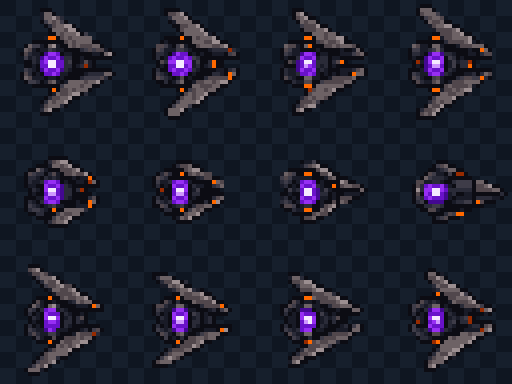
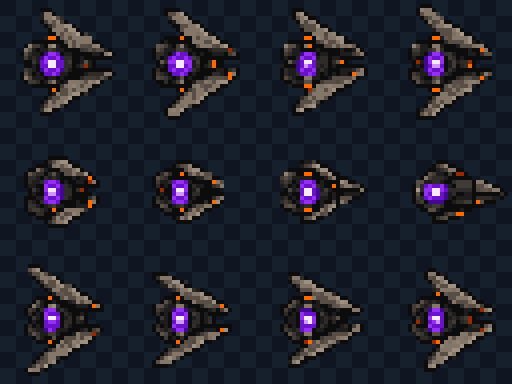
2섹터 몬스터 외장에 사용자 선택 주철 질감을 반영한다
1섹터 승인 atlas의 크기·프레임·alpha·역할색은 그대로 보존하고, 중립 외장재만 고정 팔레트와 셀 좌표 표면 편차로 정규화했다. 기존 sectorId 선택 계약은 유지해 다른 섹터와 게임플레이에는 영향을 주지 않는다.

Related: #941

Confidence: high

Scope-risk: narrow

Tested: authoring 결정적 검증, enemy sprite validator, Stage 2-3 데스크톱 1280x720·모바일 844x390 브라우저 검수, npm run check, npm run format:check, git diff --check 통과

Not-tested: 없음

diff --git a/assets/artwork/characters/sector-02-enemy-family-material-variant/source/build_sector02_variant.py b/assets/artwork/characters/sector-02-enemy-family-material-variant/source/build_sector02_variant.py
@@ -15,6 +15,7 @@ EXPORT_ROOT = PACKAGE_ROOT / "export"
 PREVIEW_ROOT = PACKAGE_ROOT / "preview"
 ATLAS_REVIEW_ROOT = PREVIEW_ROOT / "atlas-review"
 SECTOR_REFERENCE = REPO_ROOT / "docs" / "bsh" / "scenario" / "2" / "images" / "sector-02-background-reference.png"
+USER_MATERIAL_REFERENCE = PACKAGE_ROOT / "source" / "user-reference" / "sector-02-rugged-cast-iron-user-reference.png"
 
 ATLAS_NAMES = (
     "pursuit-motion.png",
@@ -30,43 +31,43 @@ ATLAS_NAMES = (
 # Only source RGB values in these fixed tables can change. The mappings are
 # intentionally shared across every frame of an atlas to prevent color jitter.
 COMMON_WORN_METAL = {
-    (9, 15, 26): (10, 13, 22),
-    (25, 37, 56): (31, 37, 52),
-    (99, 91, 83): (95, 84, 87),
-    (177, 166, 154): (166, 154, 151),
+    (9, 15, 26): (12, 12, 13),
+    (25, 37, 56): (43, 40, 38),
+    (99, 91, 83): (91, 82, 73),
+    (177, 166, 154): (148, 136, 122),
 }
 
 WORKER_DISTRICT_METAL = {
-    (5, 12, 24): (9, 12, 21),
-    (14, 30, 52): (28, 33, 48),
-    (38, 59, 86): (51, 55, 72),
-    (117, 111, 100): (109, 98, 101),
+    (5, 12, 24): (12, 12, 13),
+    (14, 30, 52): (33, 31, 30),
+    (38, 59, 86): (59, 54, 49),
+    (117, 111, 100): (135, 123, 109),
 }
 
 PALETTE_MAPS = {
     "pursuit-motion.png": COMMON_WORN_METAL,
     "sentry-upright-aim.png": COMMON_WORN_METAL,
     "artillery-acquisition-motion.png": {
-        (5, 13, 23): (10, 13, 22),
-        (8, 20, 35): (19, 23, 35),
-        (14, 35, 57): (31, 37, 53),
-        (28, 57, 83): (47, 52, 67),
-        (82, 81, 75): (84, 75, 79),
-        (122, 116, 103): (116, 104, 106),
+        (5, 13, 23): (12, 12, 13),
+        (8, 20, 35): (28, 27, 27),
+        (14, 35, 57): (47, 44, 42),
+        (28, 57, 83): (73, 67, 61),
+        (82, 81, 75): (101, 91, 80),
+        (122, 116, 103): (151, 138, 122),
     },
     # Blue is the Shield role color, so only its neutral physical plate changes.
     "shield-body.png": {},
-    "shield-directions.png": {(117, 111, 100): (109, 98, 101)},
+    "shield-directions.png": {(117, 111, 100): (135, 123, 109)},
     "patrol-motion-attack.png": WORKER_DISTRICT_METAL,
     "support-motion.png": WORKER_DISTRICT_METAL,
     "swarm-motion.png": {
-        (11, 13, 19): (12, 12, 19),
-        (21, 25, 37): (25, 27, 39),
-        (35, 41, 55): (42, 43, 56),
-        (55, 61, 72): (62, 60, 72),
-        (78, 74, 69): (81, 71, 76),
-        (116, 109, 100): (109, 98, 101),
-        (164, 158, 146): (155, 142, 144),
+        (11, 13, 19): (13, 12, 13),
+        (21, 25, 37): (30, 28, 28),
+        (35, 41, 55): (47, 43, 41),
+        (55, 61, 72): (65, 59, 54),
+        (78, 74, 69): (88, 78, 69),
+        (116, 109, 100): (132, 119, 105),
+        (164, 158, 146): (158, 144, 128),
     },
 }
 
@@ -138,10 +139,26 @@ def sha256(path: Path) -> str:
     return digest.hexdigest()
 
 
+def clamp_channel(value: int) -> int:
+    return max(0, min(255, value))
+
+
+def cast_iron_texture(color: tuple[int, int, int], x: int, y: int) -> tuple[int, int, int]:
+    if sum(color) < 90:
+        return color
+    phase = ((x % 32) * 5 + (y % 32) * 3) % 17
+    delta = 10 if phase == 0 else -7 if phase == 7 else 4 if phase == 12 else 0
+    if delta == 0:
+        return color
+    return tuple(clamp_channel(channel + delta) for channel in color)
+
+
 def apply_palette(source: Image.Image, palette: dict[tuple[int, int, int], tuple[int, int, int]]) -> Image.Image:
     pixels = []
-    for red, green, blue, alpha in source.convert("RGBA").get_flattened_data():
+    for index, (red, green, blue, alpha) in enumerate(source.convert("RGBA").get_flattened_data()):
         mapped = palette.get((red, green, blue), (red, green, blue))
+        if (red, green, blue) in palette:
+            mapped = cast_iron_texture(mapped, index % source.width, index // source.width)
         pixels.append((*mapped, alpha))
     result = Image.new("RGBA", source.size)
     result.putdata(pixels)
@@ -195,10 +212,10 @@ def make_side_by_side() -> None:
     header_font = load_font(20, bold=True)
     label_font = load_font(18, bold=True)
     sub_font = load_font(13)
-    draw.text((32, 24), "SECTOR 02 · ENEMY MATERIAL VARIANT", font=title_font, fill=(232, 237, 244))
-    draw.text((32, 66), "Approved Sector 01 identity preserved · neutral metal treatment only", font=sub_font, fill=(142, 158, 178))
+    draw.text((32, 24), "SECTOR 02 · RUGGED CAST-IRON ENEMIES", font=title_font, fill=(232, 237, 244))
+    draw.text((32, 66), "Approved Sector 01 geometry · user-selected Worker District material", font=sub_font, fill=(142, 158, 178))
     draw.text((272, 92), "CURRENT APPROVED", font=header_font, fill=(177, 166, 154), anchor="mm")
-    draw.text((748, 92), "SECTOR 02 CANDIDATE", font=header_font, fill=(190, 166, 178), anchor="mm")
+    draw.text((748, 92), "SECTOR 02 CANDIDATE", font=header_font, fill=(174, 151, 125), anchor="mm")
 
     for index, (label, atlas_name, cell_index, output_size) in enumerate(ENEMIES):
         top = header + index * row_height
@@ -232,7 +249,7 @@ def make_runtime_size_preview() -> None:
     draw.rectangle((0, 0, width, 76), fill=(4, 10, 18, 228))
     draw.text((26, 18), "ACTUAL WORLD OUTPUT SIZE", font=title_font, fill=(237, 240, 245))
     draw.text((520, 54), "CURRENT", font=header_font, fill=(177, 166, 154), anchor="mm")
-    draw.text((830, 54), "SECTOR 02", font=header_font, fill=(190, 166, 178), anchor="mm")
+    draw.text((830, 54), "SECTOR 02", font=header_font, fill=(174, 151, 125), anchor="mm")
 
     row_height = 98
     for index, (label, atlas_name, cell_index, output_size) in enumerate(ENEMIES):
@@ -277,6 +294,7 @@ def validate_pair(name: str, source: Image.Image, result: Image.Image) -> dict[s
         "changedOpaqueRatio": round(changed / opaque, 6) if opaque else 0,
         "sourceSha256": sha256(SOURCE_ROOT / name),
         "exportSha256": sha256(EXPORT_ROOT / name),
+        "materialReferenceSha256": sha256(USER_MATERIAL_REFERENCE),
     }
 
 

diff --git a/assets/artwork/characters/sector-02-enemy-family-material-variant/README.md b/assets/artwork/characters/sector-02-enemy-family-material-variant/README.md
@@ -3,14 +3,14 @@
 - Asset ID: `sector-02-enemy-family-material-variant`
 - Category: `characters`
 - Status: `USER APPROVED / RUNTIME INTEGRATED FOR SECTOR 02`
-- Target: the current Sector 01 approved seven-enemy Runtime family, adapted lightly for Sector 02
+- Target: the current Sector 01 approved seven-enemy Runtime family, given the user-selected rugged Sector 02 material treatment
 - Source: repository Runtime atlases copied without resampling from `assets/runtime/characters/sector-01-enemies/`
-- Tool chain: Codex built-in ImageGen material-reference edits plus deterministic Pillow palette normalization
+- Tool chain: user-supplied material reference plus deterministic Pillow palette and fixed cell-local surface normalization
 - Source/license: repository-owned approved project assets; no external artwork
 
 ## Scope
 
-This is an identity-preserving image-to-image authoring pass. It keeps every existing silhouette, proportion, equipment shape, facing, pose, cell, atlas dimension, frame order, anchor intent, transparent padding and binary alpha. The neutral metal and auxiliary housing colors alone move slightly toward the Sector 02 Worker District reference: dark charcoal, desaturated blue haze, dusty mauve-brown metal and restrained wear. No new weapon, limb, attachment, effect, motion, gameplay timing or collider information is introduced.
+This is an identity-preserving image-to-image authoring pass. It keeps every existing silhouette, proportion, equipment shape, facing, pose, cell, atlas dimension, frame order, anchor intent, transparent padding and binary alpha. The user-selected comparison sheet is the current material authority: neutral housing uses near-black cast-iron recesses, mottled graphite-brown midtones, dry gray-beige worn edges and restrained Worker District dust. No new weapon, limb, attachment, effect, motion, gameplay timing or collider information is introduced.
 
 Role and behavior colors remain exact source RGB values: Shield blue; Support green; Swarm purple; Patrol red/orange; Artillery orange/red warning colors; Sentry and Pursuit sensors, exhaust and warning highlights. No sector marking is added because a new 1-pixel marking would compete with the role cues at the `32x32` cell scale.
 
@@ -18,8 +18,9 @@ Role and behavior colors remain exact source RGB values: Shield blue; Support gr
 
 - `source/approved-sector-01/`: untouched copies of the eight source atlases
 - `source/imagegen/`: generated material-treatment references; not atlas inputs
+- `source/user-reference/sector-02-rugged-cast-iron-user-reference.png`: current user-selected material authority; comparison sheet only, not copied into atlas geometry
 - `source/generation-prompt.md`: ImageGen edit contract and reference roles
-- `source/build_sector02_variant.py`: deterministic palette-only normalization and preview builder
+- `source/build_sector02_variant.py`: deterministic palette and fixed cell-local surface normalization plus preview builder
 - `export/`: eight transparent PNG atlases with the same dimensions as their sources
 - `preview/sector-01-vs-sector-02-comparison.png`: side-by-side representative comparison
 - `preview/sector-02-runtime-size-comparison.png`: exact intended world-output comparison on a Sector 02 crop
@@ -39,13 +40,13 @@ Role and behavior colors remain exact source RGB values: Shield blue; Support gr
 
 ## Approval and non-scope
 
-The user approved this material variant for Sector 02 Runtime integration on 2026-08-23. The eight approved exports are copied without further image changes into `assets/runtime/characters/sector-02-enemies/`; the existing immutable `sectorId → package` selection registers only `sector-02`. GitHub Issue #898 records this integration, while Sector 01, Sector 03, gameplay, AI, collision and networking remain outside its scope.
+The user approved the rugged cast-iron replacement for Sector 02 Runtime integration on 2026-08-23. The eight exports are copied without further image changes into `assets/runtime/characters/sector-02-enemies/`; the existing immutable `sectorId → package` selection registers only `sector-02`. GitHub Issue #941 records this replacement, while Sector 01, Sector 03, Sector 04, gameplay, AI, collision and networking remain outside its scope. Issue #898 remains the history of the superseded restrained treatment.
 
 ## Validation
 
-- Deterministic build: `PASS` with Python `3.14` and bundled Pillow `12.3.0`.
+- Deterministic build: `PASS` with Python `3.14` and bundled Pillow `12.3.0`; the current user-reference SHA-256 is recorded per atlas in `verification.json`.
 - Atlas contract: `PASS` — 8 RGBA PNGs, exact source dimensions, unchanged `32x32` cell grids and frame/layer order.
 - Pixel contract: `PASS` — source alpha bytes and opaque masks are identical; output alpha values are only `0` and `255`.
 - Role-color contract: `PASS` — protected role, sensor, exhaust, telegraph and healing RGB counts are identical to the approved source atlases.
-- Visual review: `PASS` for the authoring candidate comparison at enlarged nearest-neighbor scale and exact `56x56`, `60x60` and `18x18` world-output sizes on the Sector 02 reference crop.
-- Runtime validator/browser gameplay: `PASS` against the integrated `sector-02-enemies` package; final results are recorded in its Runtime package README.
+- Visual review: `PASS` for the rugged cast-iron authoring comparison, all enlarged animation atlases and exact `56x56`, `60x60` and `18x18` world-output sizes on the Sector 02 reference crop.
+- Runtime validator/browser gameplay: `PASS` against the integrated `sector-02-enemies` package at Stage 2-3 desktop `1280x720` and mobile landscape `844x390`; final results are recorded in its Runtime package README.

diff --git a/assets/runtime/characters/sector-02-enemies/README.md b/assets/runtime/characters/sector-02-enemies/README.md
@@ -2,11 +2,11 @@
 
 - Package ID: `sector-02-enemies`
 - Source: [`assets/artwork/characters/sector-02-enemy-family-material-variant/`](../../../artwork/characters/sector-02-enemy-family-material-variant/)
-- Tool chain: Codex built-in ImageGen material references plus deterministic Pillow palette normalization
-- Provenance: repository-owned approved Sector 01 assets; no external artwork
+- Tool chain: user-supplied material reference plus deterministic Pillow palette and fixed cell-local surface normalization
+- Provenance: repository-owned approved Sector 01 assets and the user-provided comparison sheet; no third-party artwork
 - Runtime selection: only enemies whose authored `sectorId` resolves to `sector-02`
 
-This package preserves the Sector 01 public enemy manifest contract: eight RGBA PNG atlases, seven enemy definitions, the existing `32x32` cells, state and frame order, timing, render sizes, anchors and transparent padding. Only neutral metal and auxiliary housing colors receive the restrained Sector 02 worker-district material treatment. Shield blue, Support green, Swarm purple, Patrol red/orange, Artillery orange/red and the Sentry/Pursuit sensor, exhaust and warning colors remain unchanged.
+This package preserves the Sector 01 public enemy manifest contract: eight RGBA PNG atlases, seven enemy definitions, the existing `32x32` cells, state and frame order, timing, render sizes, anchors and transparent padding. Only neutral metal and auxiliary housing colors receive the user-selected rugged Worker District treatment: near-black cast-iron recesses, mottled graphite-brown midtones and dry gray-beige worn edges. Shield blue, Support green, Swarm purple, Patrol red/orange, Artillery orange/red and the Sentry/Pursuit sensor, exhaust and warning colors remain unchanged.
 
 The package does not change enemy types, gameplay, AI, collision, damage, networking, animation timing or other sectors. Missing sector packages or unsupported types continue to use the existing Sector 01 and built-in fallbacks.
 
@@ -14,5 +14,5 @@ The package does not change enemy types, gameplay, AI, collision, damage, networ
 
 - Authoring export to Runtime PNG hash identity: `PASS` for all eight atlases
 - Runtime manifest validator: `PASS` — `8 atlas, 7 enemies, 48 states`
-- Fixed selection: `PASS` — Sector 01 remains `sector-01-enemies`, Sector 02 resolves to `sector-02-enemies`, Sector 03 remains unregistered
-- Manual browser review: `PASS` — Stage 2-3 enemy rendered with preserved role color at the default desktop viewport and `390x844` mobile viewport; no browser warnings or errors
+- Fixed selection: `PASS` — Sector 02 resolves to `sector-02-enemies`; Sector 01, Sector 03 and Sector 04 selections remain unchanged
+- Manual browser review: `PASS` — Stage 2-3 rendered the rugged cast-iron Support atlas with its green role core preserved at desktop `1280x720` and mobile landscape `844x390`; no browser warnings or errors

diff --git a/assets/artwork/characters/sector-02-enemy-family-material-variant/source/generation-prompt.md b/assets/artwork/characters/sector-02-enemy-family-material-variant/source/generation-prompt.md
@@ -1,13 +1,14 @@
-# Built-in ImageGen edit prompts
+# Sector 02 user-selected material normalization
 
 ## Shared input roles
 
-- Image 1 (or Images 1-2 for Shield): edit target — approved Sector 01 transparent pixel atlas.
-- Final image: material and mood reference only — Sector 02 Worker District background reference.
-- Use case: `precise-object-edit`.
+- Identity authority: approved Sector 01 transparent pixel atlases.
+- Current material authority: `user-reference/sector-02-rugged-cast-iron-user-reference.png` supplied by the user on 2026-08-23.
+- Environment check: Sector 02 Worker District background reference.
+- Earlier ImageGen studies remain historical source records and are not current atlas inputs.
 
 ## Shared edit contract
 
-Change only neutral outer-shell secondary colors and neutral metal material toward the Sector 02 Worker District reference: dark charcoal, desaturated blue-haze metal, a faint dusty mauve-brown cast, and restrained non-residential wear. Preserve the source sprite identity, exact silhouette, proportions, equipment, facing, pose, frame layout, frame count, spacing, transparent padding and hard pixel edge language. Preserve role and behavior colors exactly: Shield blue, Support green, Swarm purple, Patrol red/orange, Artillery orange/red warning colors, and Sentry/Pursuit sensor and exhaust highlights. Do not add weapons, equipment, limbs, symbols, micro-detail, glow, antialiasing, blur, semitransparent edge pixels, background, text or watermark.
+Change only neutral outer-shell secondary colors and neutral metal material toward the user-selected reference: near-black cast-iron recesses, mottled graphite-brown midtones, dry gray-beige worn edges and restrained worker-district dust. Preserve the source sprite identity, exact silhouette, proportions, equipment, facing, pose, frame layout, frame count, spacing, transparent padding and hard pixel edge language. Preserve role and behavior colors exactly: Shield blue, Support green, Swarm purple, Patrol red/orange, Artillery orange/red warning colors, and Sentry/Pursuit sensor and exhaust highlights. Do not add weapons, equipment, limbs, symbols, glow, antialiasing, blur, semitransparent edge pixels, background, text or watermark.
 
-The built-in outputs are retained only as material-treatment references. Final atlases are rebuilt deterministically from the approved source pixels so the atlas geometry and binary alpha cannot drift.
+Final atlases are rebuilt deterministically from the approved source pixels. A fixed RGB transform plus fixed cell-local surface variation supplies the rugged finish without changing atlas geometry, binary alpha or protected role-color pixels.
